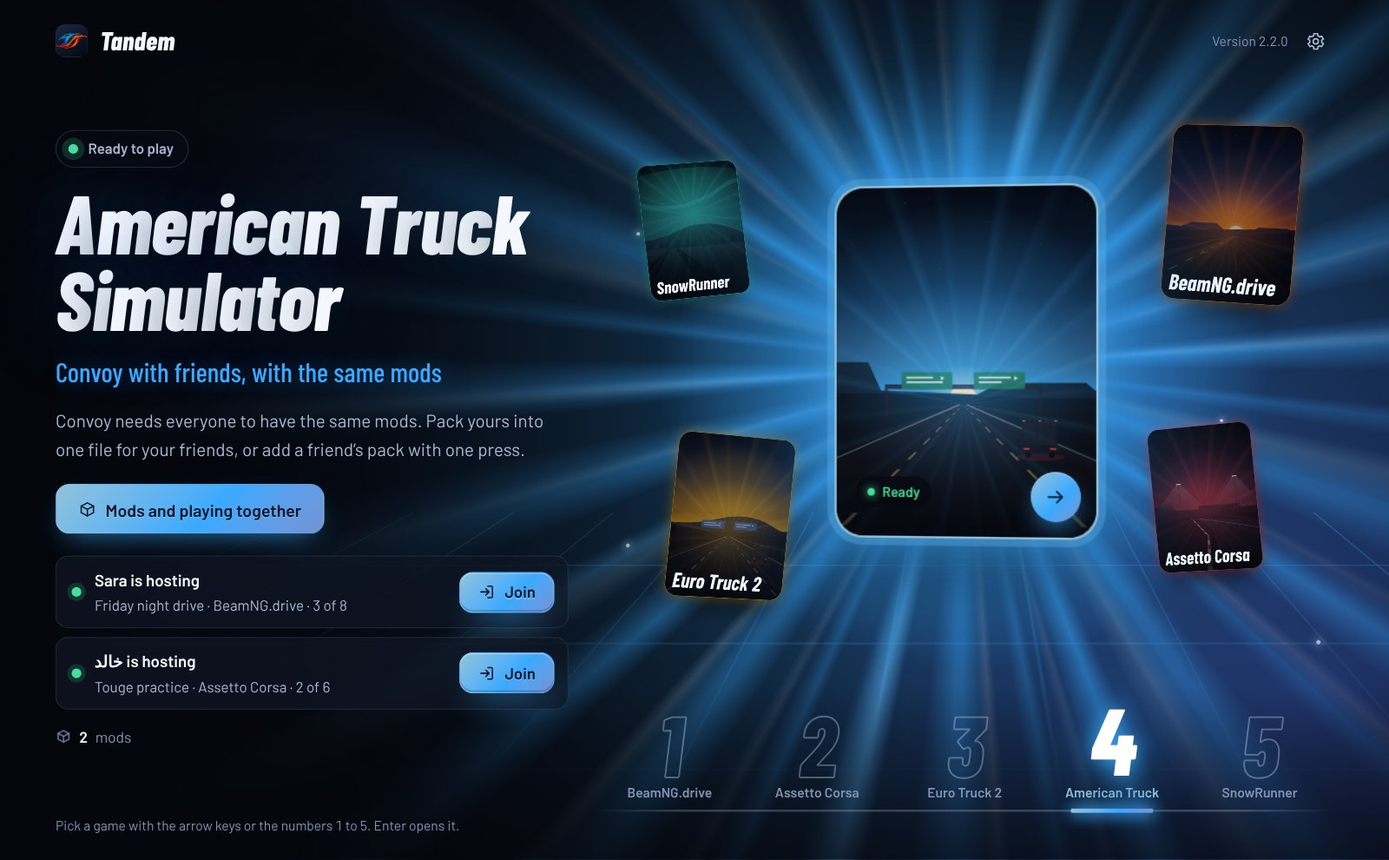
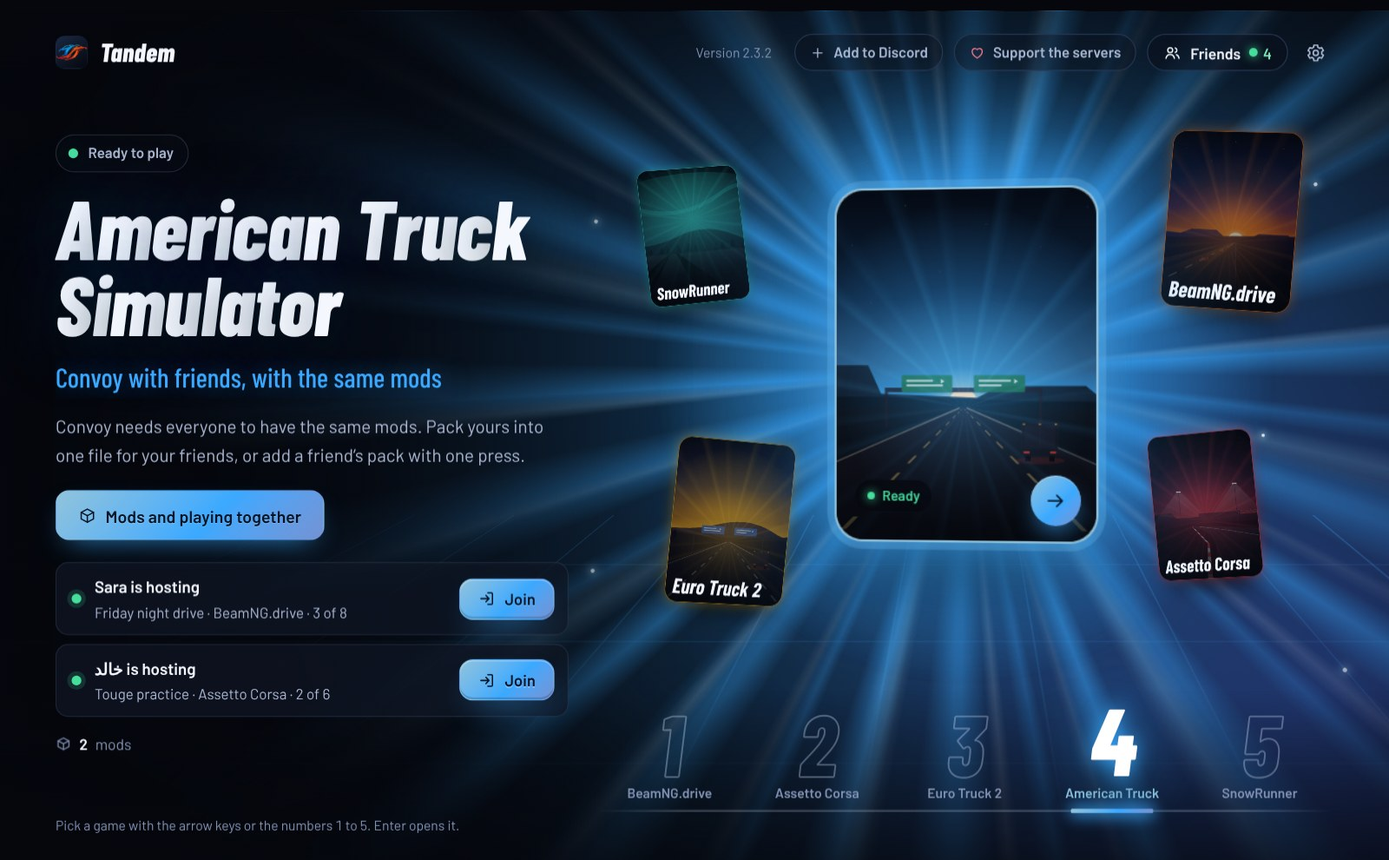
Tandem 2.3.2: New in 2.3 (friends, live map, the whole planet, backup route, Discord bot and status), Playing now, fresh 2.3.2 pictures
Claude-Session: https://claude.ai/code/session_01DAip5mYULPS2UEvRR35KRN

diff --git a/index.html b/index.html
@@ -3,7 +3,7 @@
 <head>
 <meta charset="utf-8">
 <meta name="viewport" content="width=device-width, initial-scale=1, viewport-fit=cover">
-<meta http-equiv="Content-Security-Policy" content="default-src 'none'; script-src 'sha256-8VHCHuWYiJuamFYB5elcAHtd2EqjMvnUOgRSxvvkTy0=' 'sha256-HTD+WLxPAAk+6BHThBzG/oxsUEiQgd2BHaImcy/E3Hg='; style-src 'self' 'unsafe-inline' https://fonts.googleapis.com; font-src https://fonts.gstatic.com; img-src 'self' data:; connect-src https://api.github.com; base-uri 'none'; form-action 'none'">
+<meta http-equiv="Content-Security-Policy" content="default-src 'none'; script-src 'sha256-DFJ7IdB0tBNmLmuRNgpEo9u5m9uYJSu1+aFsD5wwr3M=' 'sha256-4DuXHdYDW4SnoT/hApZRKMQR2EP5yMigk2EDWf3FkoM='; style-src 'self' 'unsafe-inline' https://fonts.googleapis.com; font-src https://fonts.gstatic.com; img-src 'self' data:; connect-src https://api.github.com https://tandem-sessions.mhmd8p.workers.dev; base-uri 'none'; form-action 'none'">
 <meta name="referrer" content="strict-origin-when-cross-origin">
 <title>Tandem · Play BeamNG.drive and Assetto Corsa with friends</title>
 <meta name="description" content="Host and join BeamNG.drive and Assetto Corsa sessions with your friends, from your own PC. Friends join with one invite and get the maps and mods they are missing. Free.">
@@ -87,6 +87,19 @@ p { margin: 0; text-wrap: pretty; }
 .sec { padding-block: clamp(60px, 8vw, 112px); position: relative; }
 .sec-head { display: grid; gap: 18px; max-width: 760px; margin-bottom: clamp(36px, 5vw, 64px); }
 .sec-head p { color: var(--worn); font-size: var(--fs-lead); max-width: 36em; }
+/* "Playing now": public sessions open at this moment (only there when one is). */
+.sec.now { padding-block: clamp(34px, 5vw, 60px); }
+.sec.now .sec-head { margin-bottom: 22px; }
+.now-dot { display: inline-block; width: .42em; height: .42em; margin-inline-end: .32em; border-radius: 50%; background: #46de9d; box-shadow: 0 0 0 .14em rgba(70, 222, 157, .25); vertical-align: .16em; }
+.now-list { list-style: none; margin: 0; padding: 0; display: grid; gap: 10px; }
+.now-list li { display: grid; grid-template-columns: minmax(0, 1fr) minmax(0, 1.5fr) auto; align-items: center; gap: 6px 24px; padding: 14px 16px; padding-inline-start: 22px; border-radius: 18px; border: 1px solid var(--edge); background: rgba(255, 255, 255, .03); }
+.now-list b { font-size: 1.08rem; font-weight: 700; overflow-wrap: anywhere; }
+html[dir="rtl"] .now-list b { text-align: right; }
+.now-list span { color: var(--worn); font-size: .95rem; overflow-wrap: anywhere; }
+.now-list a { padding: 10px 18px; border-radius: 999px; background: var(--signal); color: var(--signal-ink); font-weight: 700; font-size: .92rem; text-decoration: none; white-space: nowrap; }
+.now-list a:hover, .now-list a:focus-visible { filter: brightness(1.08); }
+@media (max-width: 760px) { .now-list li { grid-template-columns: minmax(0, 1fr) auto; gap: 4px 14px; padding-inline-start: 18px; } .now-list b, .now-list span { grid-column: 1; } .now-list a { grid-column: 2; grid-row: 1 / span 2; } }
+@media (max-width: 460px) { .now-list li { grid-template-columns: minmax(0, 1fr); } .now-list a { grid-column: 1; grid-row: auto; justify-self: start; margin-top: 8px; } }
 
 /* ---------- Buttons ---------- */
 .btn { display: inline-flex; align-items: center; gap: 10px; min-height: 46px; padding: 0 20px; border-radius: var(--r-control); font: 600 1rem/1.1 var(--body); text-decoration: none; border: 1px solid var(--edge-2); background: rgba(255, 255, 255, .03); color: var(--lane); cursor: pointer; transition: background .25s var(--ease), border-color .25s var(--ease), transform .25s var(--ease); }
@@ -636,6 +649,10 @@ p { margin: 0; text-wrap: pretty; }
   <symbol id="i-out" viewBox="0 0 24 24"><path d="M7 17L17 7M9 7h8v8"/></symbol>
   <symbol id="i-arrow" viewBox="0 0 24 24"><path d="M4 12h15M13 6l6 6-6 6"/></symbol>
   <symbol id="i-copy" viewBox="0 0 24 24"><rect x="9" y="9" width="11" height="11" rx="2"/><path d="M5 15V6a2 2 0 012-2h9"/></symbol>
+  <symbol id="i-calendar" viewBox="0 0 24 24"><rect x="3.5" y="5" width="17" height="15.5" rx="2.5"/><path d="M3.5 10h17M8 3v4M16 3v4M8.7 14.8l2.2 2.2 4.4-4.6"/></symbol>
+  <symbol id="i-map" viewBox="0 0 24 24"><path d="M9 4.5l-5.5 2v13l5.5-2 6 2 5.5-2v-13l-5.5 2-6-2zM9 4.5v13M15 6.5v13"/></symbol>
+  <symbol id="i-bot" viewBox="0 0 24 24"><rect x="5" y="8" width="14" height="11" rx="3"/><path d="M12 8V5M9.5 13h.01M14.5 13h.01M9.5 16h5M2.5 12.5v3M21.5 12.5v3"/><circle cx="12" cy="3.8" r="1.2"/></symbol>
+  <symbol id="i-photo" viewBox="0 0 24 24"><rect x="3" y="4.5" width="18" height="15" rx="2.5"/><circle cx="8.5" cy="9.5" r="1.6"/><path d="M3.5 17.5l5-5 3.5 3.5 3-3 5.5 5.5"/></symbol>
 </svg>
 
 <a class="skip" href="#main" data-t="skip">Skip to content</a>
@@ -669,7 +686,7 @@ p { margin: 0; text-wrap: pretty; }
     <div class="streaks" aria-hidden="true"><i style="--y:18%;--d:7s;--w:0s"></i><i style="--y:46%;--d:9s;--w:2.4s"></i><i style="--y:72%;--d:8s;--w:4.6s"></i><i style="--y:30%;--d:10s;--w:6s"></i><i style="--y:88%;--d:9.5s;--w:1.2s"></i></div>
     <div class="wrap hero-grid">
       <div class="hero-copy">
-        <a class="pill" href="#new22"><b>2.2</b><span data-t="hero_pill">New in 2.2: a new look, your phone as a remote, and three more games</span></a>
+        <a class="pill" href="#new23"><b>2.3.2</b><span data-t="hero_pill">New in 2.3: friends, a live map, and the whole planet</span></a>
         <h1 class="display"><span data-t="hero_h1">Drive with your friends.</span><span class="paint" aria-hidden="true"></span></h1>
         <p class="lead" data-t="hero_lead">Host BeamNG.drive and Assetto Corsa sessions from your own PC. Friends join with one invite, and Tandem brings them the maps and mods they’re missing.</p>
         <div class="actions">
@@ -720,6 +737,16 @@ p { margin: 0; text-wrap: pretty; }
         <button type="button" role="tab" aria-selected="false" style="--c:#3aa9ff"><b>4</b><span>American Truck</span></button>
         <button type="button" role="tab" aria-selected="false" style="--c:#2fd6c4"><b>5</b><span>SnowRunner</span></button>
       </div>
+    </div>
+  </section>
+
+  <section class="sec now" id="now" aria-labelledby="now-h" hidden>
+    <div class="wrap">
+      <div class="sec-head">
+        <h2 class="display" id="now-h"><span class="now-dot" aria-hidden="true"></span><span data-t="pn_h">Playing now</span></h2>
+        <p data-t="pn_p">Public sessions that are open right now. Join opens Tandem on your PC, and the host still lets each player in.</p>
+      </div>
+      <ul class="now-list" id="now-list"></ul>
     </div>
   </section>
 
@@ -788,6 +815,26 @@ p { margin: 0; text-wrap: pretty; }
     </div>
   </section>
 
+  <section class="sec" id="new23" aria-labelledby="new23-h">
+    <div class="wrap">
+      <div class="sec-head rise">
+        <h2 class="display" id="new23-h" data-t="n23_h">New in 2.3</h2>
+        <p data-t="n23_p">Friends you add once with a code, a live map of your session, the whole planet in BeamNG, and race bots in Assetto Corsa.</p>
+      </div>
+      <div class="core core-3 rise">
+        <div><span class="ic-wrap"><svg class="ic" aria-hidden="true"><use href="#i-users"/></svg></span><b data-t="q1t">Friends</b><p data-t="q1p">Add a friend once with a code. You see who is online, join each other without asking, and invite with one press.</p></div>
+        <div><span class="ic-wrap"><svg class="ic" aria-hidden="true"><use href="#i-calendar"/></svg></span><b data-t="q2t">Game night</b><p data-t="q2p">Plan a session and tell your friends. They get its mods ahead of time, so on the night nobody waits for a download.</p></div>
+        <div><span class="ic-wrap"><svg class="ic" aria-hidden="true"><use href="#i-map"/></svg></span><b data-t="q3t">A live map</b><p data-t="q3p">See where everyone is on the map of your session, in BeamNG and in Assetto Corsa. The game is never asked for anything.</p></div>
+        <div><span class="ic-wrap"><svg class="ic" aria-hidden="true"><use href="#i-globe"/></svg></span><b data-t="q4t">The whole planet</b><p data-t="q4p">Drive anywhere on Earth together with the free BeamNG.Earth map. Tandem starts it for you (Windows).</p></div>
+        <div><span class="ic-wrap"><svg class="ic" aria-hidden="true"><use href="#i-bot"/></svg></span><b data-t="q5t">Race bots</b><p data-t="q5p">Fill an Assetto Corsa track with computer drivers that follow the racing line and keep out of your way.</p></div>
+        <div><span class="ic-wrap"><svg class="ic" aria-hidden="true"><use href="#i-photo"/></svg></span><b data-t="q6t">A photo album</b><p data-t="q6p">Everyone’s screenshots of a session land in one folder. Tandem asks once before it shares yours.</p></div>
+        <div><span class="ic-wrap"><svg class="ic" aria-hidden="true"><use href="#i-cloud"/></svg></span><b data-t="q7t">Backup route</b><p data-t="q7p">Friends whose routers can’t link directly now join by themselves, through a relay server.</p></div>
+        <div><span class="ic-wrap"><svg class="ic" aria-hidden="true"><use href="#i-chat"/></svg></span><b data-t="q8t">Add to Discord</b><p data-t="q8p">Add the Tandem bot to your Discord server: live sessions and news of new versions, by themselves.</p></div>
+        <div><span class="ic-wrap"><svg class="ic" aria-hidden="true"><use href="#i-play"/></svg></span><b data-t="q9t">Discord status</b><p data-t="q9p">Friends see your game, map and players on Discord, and can ask to join from there.</p></div>
+      </div>
+    </div>
+  </section>
+
   <section class="sec" id="new22" aria-labelledby="new22-h">
     <div class="wrap">
       <div class="sec-head rise">
@@ -815,25 +862,6 @@ p { margin: 0; text-wrap: pretty; }
         <div><span class="ic-wrap"><svg class="ic" aria-hidden="true"><use href="#i-traffic"/></svg></span><b data-t="m5t">Traffic that starts</b><p data-t="m5p">When the usual start fails on a PC, Tandem tries a second way and tells you what happened.</p></div>
         <div><span class="ic-wrap"><svg class="ic" aria-hidden="true"><use href="#i-shield"/></svg></span><b data-t="m6t">Clear words for Assetto Corsa mods</b><p data-t="m6p">Purple map or a missing car? Tandem tells you when Custom Shaders Patch is missing, older than the host’s or switched off.</p></div>
         <div><span class="ic-wrap"><svg class="ic" aria-hidden="true"><use href="#i-globe"/></svg></span><b data-t="m10t">Hosting no longer stops on a blocked website</b><p data-t="m10p">Finding your internet address when you host now asks several places at once. Before, one blocked or slow website could stop hosting with a “timeout” message.</p></div>
-      </div>
-    </div>
-  </section>
-
-  <section class="sec" id="new21" aria-labelledby="new21-h">
-    <div class="wrap">
-      <div class="sec-head rise">
-        <h2 class="display" id="new21-h" data-t="n21_h">New in 2.1</h2>
-        <p data-t="n21_p">Games to play together, started by the host from the friends list in the game.</p>
-      </div>
-      <div class="core rise">
-        <div><span class="ic-wrap"><svg class="ic" aria-hidden="true"><use href="#i-play"/></svg></span><b data-t="n1t">Race your friends</b><p data-t="n1p">Drag races, point to point and laps. One countdown for everyone and a results board at the end.</p></div>
-        <div><span class="ic-wrap"><svg class="ic" aria-hidden="true"><use href="#i-crash"/></svg></span><b data-t="n2t">Drift battles, tandem drift, derby and tag</b><p data-t="n2p">Most drift points, more points the closer you drift to a friend, the last car still moving, or don’t be “it”. The host picks, everyone plays.</p></div>
-        <div><span class="ic-wrap"><svg class="ic" aria-hidden="true"><use href="#i-users"/></svg></span><b data-t="n3t">A new friends list in the game</b><p data-t="n3p">Go to a friend, watch them drive, follow the arrows to friends you can’t see, or hide a player’s car on your screen.</p></div>
-        <div><span class="ic-wrap"><svg class="ic" aria-hidden="true"><use href="#i-key"/></svg></span><b data-t="n4t">Get your friend’s car</b><p data-t="n4p">One press and you drive the same car, with the same parts and paint. Open a door or the hood, and your friends see it too.</p></div>
-        <div><span class="ic-wrap"><svg class="ic" aria-hidden="true"><use href="#i-note"/></svg></span><b data-t="n5t">Sessions with a theme</b><p data-t="n5p">Cruise, race, drift, off-road or derby. Filter the public list, or plan a session and get a reminder.</p></div>
-        <div><span class="ic-wrap"><svg class="ic" aria-hidden="true"><use href="#i-game"/></svg></span><b data-t="n6t">More for Assetto Corsa</b><p data-t="n6p">Results after every part of the session, and new cars without ending it.</p></div>
-        <div><span class="ic-wrap"><svg class="ic" aria-hidden="true"><use href="#i-shield"/></svg></span><b data-t="n7t">Fair sessions</b><p data-t="n7p">A welcome message, votes to remove a player, and a filter for bad words in chat.</p></div>
-        <div><span class="ic-wrap"><svg class="ic" aria-hidden="true"><use href="#i-heart"/></svg></span><b data-t="n8t">Your numbers</b><p data-t="n8p">Hours, kilometres and games won, and your own card to share as a picture.</p></div>
       </div>
     </div>
   </section>
@@ -1091,7 +1119,8 @@ en: {
   plat_win: "Windows 10 and 11",
   skip: "Skip to content", nav_label: "Main", links_label: "Links",
   nav_features: "Features", nav_how: "How it works", nav_safe: "Safety", nav_faq: "FAQ", nav_community: "Community", nav_download: "Download",
-  hero_pill: "New in 2.2: a new look, your phone as a remote, and three more games",
+  hero_pill: "New in 2.3: friends, a live map, and the whole planet",
+  n23_h: "New in 2.3", n23_p: "Friends you add once with a code, a live map of your session, the whole planet in BeamNG, and race bots in Assetto Corsa.", q1t: "Friends", q1p: "Add a friend once with a code. You see who is online, join each other without asking, and invite with one press.", q2t: "Game night", q2p: "Plan a session and tell your friends. They get its mods ahead of time, so on the night nobody waits for a download.", q3t: "A live map", q3p: "See where everyone is on the map of your session, in BeamNG and in Assetto Corsa. The game is never asked for anything.", q4t: "The whole planet", q4p: "Drive anywhere on Earth together with the free BeamNG.Earth map. Tandem starts it for you (Windows).", q5t: "Race bots", q5p: "Fill an Assetto Corsa track with computer drivers that follow the racing line and keep out of your way.", q6t: "A photo album", q6p: "Everyone’s screenshots of a session land in one folder. Tandem asks once before it shares yours.", q7t: "Backup route", q7p: "Friends whose routers can’t link directly now join by themselves, through a relay server.", q8t: "Add to Discord", q8p: "Add the Tandem bot to your Discord server: live sessions and news of new versions, by themselves.", q9t: "Discord status", q9p: "Friends see your game, map and players on Discord, and can ask to join from there.", pn_h: "Playing now", pn_p: "Public sessions that are open right now. Join opens Tandem on your PC, and the host still lets each player in.", pn_join: "Join in Tandem", pn_players: "{n} / {max} players",
   hero_h1: "Drive with your friends.",
   hero_lead: "Host BeamNG.drive and Assetto Corsa sessions from your own PC. Friends join with one invite, and Tandem brings them the maps and mods they’re missing.",
   dl_win: "Download for Windows", dl_linux: "Download for Linux", dl_sub: "Free · Windows 10 and 11", dl_sub_v: "Version {v} · {mb} MB · Free", dl_all: "All downloads on GitHub",
@@ -1168,7 +1197,8 @@ ar: {
   plat_win: "ويندوز 10 و11",
   skip: "انتقل إلى المحتوى", nav_label: "القائمة الرئيسية", links_label: "الروابط",
   nav_features: "المزايا", nav_how: "طريقة العمل", nav_safe: "الأمان", nav_faq: "الأسئلة", nav_community: "المجتمع", nav_download: "تحميل",
-  hero_pill: "جديد في 2.2: شكل جديد، جوالك صار ريموت، وثلاث ألعاب جديدة",
+  hero_pill: "جديد في 2.3: الأصدقاء، خريطة مباشرة، والكوكب كله",
+  n23_h: "جديد في 2.3", n23_p: "أصدقاء تضيفهم مرة وحدة بكود، خريطة مباشرة لجلستك، الكوكب كله في BeamNG، وسائقين آليين في Assetto Corsa.", q1t: "الأصدقاء", q1p: "أضف صديقك مرة وحدة بكود. تشوف مين متصل، وتدخلون على بعض بدون استئذان، وتدعو بضغطة.", q2t: "سهرة اللعب", q2p: "خطط جلسة وخبّر ربعك. توصلهم موداتها قبل الموعد، وفي ليلة اللعب ما أحد ينتظر تحميل.", q3t: "خريطة مباشرة", q3p: "شوف وين كل واحد على خريطة جلستك، في BeamNG وفي Assetto Corsa. بدون ما ينطلب من اللعبة أي شي.", q4t: "الكوكب كله", q4p: "سوقوا في أي مكان على الأرض مع بعض بخريطة BeamNG.Earth المجانية. Tandem يشغّلها عنك (ويندوز).", q5t: "سائقين آليين", q5p: "املأ حلبة Assetto Corsa بسائقين من الكمبيوتر يمشون على خط السباق وما يضايقونك.", q6t: "ألبوم صور", q6p: "لقطات الكل في الجلسة تنزل في مجلد واحد. Tandem يسألك مرة وحدة قبل ما يشارك لقطاتك.", q7t: "المسار الاحتياطي", q7p: "الربع اللي راوتراتهم ما تتصل مباشرة صاروا يدخلون لحالهم، عن طريق سيرفر وسيط.", q8t: "ضيفه لديسكورد", q8p: "ضيف بوت Tandem لسيرفرك في ديسكورد: الجلسات المباشرة وأخبار الإصدارات الجديدة توصل لحالها.", q9t: "حالتك في ديسكورد", q9p: "ربعك يشوفون لعبتك وخريطتك واللاعبين في ديسكورد، ويقدرون يطلبون الانضمام من هناك.", pn_h: "يلعبون الحين", pn_p: "جلسات عامة مفتوحة الحين. «انضم» يفتح Tandem على جهازك، والمستضيف هو اللي يسمح لكل لاعب.", pn_join: "انضم في Tandem", pn_players: "{n} من {max} لاعبين",
   hero_h1: "القيادة أحلى مع أصدقائك.",
   hero_lead: "استضف جلسات BeamNG.drive و Assetto Corsa من جهازك. يدخل أصدقاؤك بدعوة واحدة، ويجلب لهم تاندم الخرائط والمودات التي تنقصهم.",
   dl_win: "تحميل لويندوز", dl_linux: "تحميل للينكس", dl_sub: "مجاني · ويندوز 10 و11", dl_sub_v: "الإصدار {v} · {mb} ميغابايت · مجاني", dl_all: "كل التحميلات على GitHub",
@@ -1245,7 +1275,8 @@ zh: {
   plat_win: "Windows 10 和 11",
   skip: "跳到内容", nav_label: "主导航", links_label: "链接",
   nav_features: "功能", nav_how: "怎么用", nav_safe: "安全", nav_faq: "常见问题", nav_community: "社区", nav_download: "下载",
-  hero_pill: "2.2 新内容：全新外观、手机当遥控、新增三款游戏",
+  hero_pill: "2.3 新内容：朋友、实时地图和整个地球",
+  n23_h: "2.3 新内容", n23_p: "用代码添加一次的朋友、会话的实时地图、BeamNG 里的整个地球，以及 Assetto Corsa 的比赛机器人。", q1t: "朋友", q1p: "用代码添加一次朋友。你能看到谁在线，不用询问就能互相加入，一键即可邀请。", q2t: "游戏之夜", q2p: "计划一个会话并告诉朋友。他们会提前拿到模组，当晚没有人需要等下载。", q3t: "实时地图", q3p: "在 BeamNG 和 Assetto Corsa 中查看每个人在会话地图上的位置。不会向游戏索取任何东西。", q4t: "整个地球", q4p: "用免费的 BeamNG.Earth 地图一起在地球任何地方开车。Tandem 会替你启动它（Windows）。", q5t: "比赛机器人", q5p: "用电脑车手填满 Assetto Corsa 的赛道，它们沿赛车线行驶，不会挡你的路。", q6t: "相册", q6p: "会话中每个人的截图都会落在同一个文件夹里。分享你的截图之前，Tandem 会先问一次。", q7t: "备用线路", q7p: "路由器无法直连的朋友现在会自动通过中继服务器加入。", q8t: "添加到 Discord", q8p: "把 Tandem 机器人加到你的 Discord 服务器：实时会话和新版本消息，自动发布。", q9t: "Discord 状态", q9p: "朋友能在 Discord 上看到你的游戏、地图和玩家，还能直接从那里请求加入。", pn_h: "正在游玩", pn_p: "现在开放的公开会话。“加入”会在你的电脑上打开 Tandem，仍由主机决定是否放行每位玩家。", pn_join: "在 Tandem 中加入", pn_players: "{n} / {max} 名玩家",
   hero_h1: "和朋友一起开车。",
   hero_lead: "在你自己的电脑上开 BeamNG.drive 和 Assetto Corsa 的房间。朋友用一条邀请就能加入，Tandem 会把他们缺少的地图和模组送过去。",
   dl_win: "下载 Windows 版", dl_linux: "下载 Linux 版", dl_sub: "免费 · Windows 10 和 11", dl_sub_v: "版本 {v} · {mb} MB · 免费", dl_all: "在 GitHub 上查看全部下载",
@@ -1322,7 +1353,8 @@ fr: {
   plat_win: "Windows 10 et 11",
   skip: "Aller au contenu", nav_label: "Navigation principale", links_label: "Liens",
   nav_features: "Fonctions", nav_how: "Comment ça marche", nav_safe: "Sécurité", nav_faq: "FAQ", nav_community: "Communauté", nav_download: "Télécharger",
-  hero_pill: "Nouveau dans la 2.2 : un nouveau look, votre téléphone comme télécommande et trois jeux de plus",
+  hero_pill: "Nouveau dans la 2.3 : amis, carte en direct et planète entière",
+  n23_h: "Nouveau dans la 2.3", n23_p: "Des amis ajoutés une fois avec un code, une carte en direct de votre session, la planète entière dans BeamNG et des pilotes robots dans Assetto Corsa.", q1t: "Amis", q1p: "Ajoutez un ami une fois avec un code. Vous voyez qui est en ligne, vous vous rejoignez sans demander et vous invitez d’un clic.", q2t: "Soirée de jeu", q2p: "Prévoyez une session et prévenez vos amis. Ils reçoivent ses mods à l’avance : le soir venu, personne n’attend un téléchargement.", q3t: "Une carte en direct", q3p: "Voyez où se trouve chacun sur la carte de votre session, dans BeamNG et dans Assetto Corsa. Rien n’est demandé au jeu.", q4t: "La planète entière", q4p: "Roulez ensemble partout sur Terre avec la carte gratuite BeamNG.Earth. Tandem la lance pour vous (Windows).", q5t: "Pilotes robots", q5p: "Remplissez un circuit d’Assetto Corsa de pilotes gérés par l’ordinateur, qui suivent la trajectoire et ne vous gênent pas.", q6t: "Un album photo", q6p: "Les captures d’écran de tous arrivent dans un seul dossier. Tandem demande une fois avant de partager les vôtres.", q7t: "Route de secours", q7p: "Les amis dont les routeurs ne peuvent pas se relier directement rejoignent maintenant tout seuls, via un serveur relais.", q8t: "Ajouter à Discord", q8p: "Ajoutez le bot Tandem à votre serveur Discord : sessions en direct et annonces des nouvelles versions, automatiquement.", q9t: "Statut Discord", q9p: "Vos amis voient votre jeu, la carte et les joueurs sur Discord, et peuvent demander à vous rejoindre depuis là.", pn_h: "En ce moment", pn_p: "Les sessions publiques ouvertes en ce moment. Rejoindre ouvre Tandem sur votre PC, et l’hôte laisse toujours entrer chaque joueur lui-même.", pn_join: "Rejoindre dans Tandem", pn_players: "{n} / {max} joueurs",
   hero_h1: "Roulez avec vos amis.",
   hero_lead: "Hébergez des sessions BeamNG.drive et Assetto Corsa depuis votre propre PC. Vos amis rejoignent avec une seule invitation, et Tandem leur apporte les cartes et les mods qui leur manquent.",
   dl_win: "Télécharger pour Windows", dl_linux: "Télécharger pour Linux", dl_sub: "Gratuit · Windows 10 et 11", dl_sub_v: "Version {v} · {mb} Mo · Gratuit", dl_all: "Tous les téléchargements sur GitHub",
@@ -1399,7 +1431,8 @@ de: {
   plat_win: "Windows 10 und 11",
   skip: "Zum Inhalt springen", nav_label: "Hauptnavigation", links_label: "Links",
   nav_features: "Funktionen", nav_how: "So funktioniert’s", nav_safe: "Sicherheit", nav_faq: "FAQ", nav_community: "Community", nav_download: "Download",
-  hero_pill: "Neu in 2.2: ein neuer Look, dein Handy als Fernbedienung und drei weitere Spiele",
+  hero_pill: "Neu in 2.3: Freunde, eine Live-Karte und der ganze Planet",
+  n23_h: "Neu in 2.3", n23_p: "Freunde, die du einmal per Code hinzufügst, eine Live-Karte deiner Sitzung, der ganze Planet in BeamNG und Renn-Bots in Assetto Corsa.", q1t: "Freunde", q1p: "Füge einen Freund einmal per Code hinzu. Du siehst, wer online ist, ihr tretet einander ohne Nachfrage bei und ladet mit einem Klick ein.", q2t: "Spieleabend", q2p: "Plane eine Sitzung und sag es deinen Freunden. Sie bekommen die Mods vorab, am Abend wartet niemand auf einen Download.", q3t: "Eine Live-Karte", q3p: "Sieh, wo alle auf der Karte deiner Sitzung sind, in BeamNG und in Assetto Corsa. Vom Spiel wird dafür nichts verlangt.", q4t: "Der ganze Planet", q4p: "Fahrt zusammen überall auf der Erde, mit der kostenlosen BeamNG.Earth-Karte. Tandem startet sie für dich (Windows).", q5t: "Renn-Bots", q5p: "Fülle eine Strecke in Assetto Corsa mit Computerfahrern, die der Ideallinie folgen und dir aus dem Weg bleiben.", q6t: "Ein Fotoalbum", q6p: "Die Screenshots aller aus einer Sitzung landen in einem Ordner. Tandem fragt einmal, bevor es deine teilt.", q7t: "Ausweichroute", q7p: "Freunde, deren Router sich nicht direkt verbinden können, treten jetzt von selbst über einen Relay-Server bei.", q8t: "Zu Discord hinzufügen", q8p: "Füge den Tandem-Bot deinem Discord-Server hinzu: Live-Sitzungen und Neuigkeiten zu neuen Versionen, ganz von selbst.", q9t: "Discord-Status", q9p: "Freunde sehen auf Discord dein Spiel, die Karte und die Spieler und können von dort aus um Beitritt bitten.", pn_h: "Gerade live", pn_p: "Öffentliche Sitzungen, die jetzt offen sind. Beitreten öffnet Tandem auf deinem PC, und der Host lässt weiterhin jeden Spieler selbst herein.", pn_join: "In Tandem beitreten", pn_players: "{n} / {max} Spieler",
   hero_h1: "Fahr mit deinen Freunden.",
   hero_lead: "Hoste Sitzungen in BeamNG.drive und Assetto Corsa auf deinem eigenen PC. Freunde treten mit einer Einladung bei, und Tandem bringt ihnen die Karten und Mods, die ihnen fehlen.",
   dl_win: "Für Windows herunterladen", dl_linux: "Für Linux herunterladen", dl_sub: "Kostenlos · Windows 10 und 11", dl_sub_v: "Version {v} · {mb} MB · Kostenlos", dl_all: "Alle Downloads auf GitHub",
@@ -1476,7 +1509,8 @@ ja: {
   plat_win: "Windows 10 と 11",
   skip: "本文へ移動", nav_label: "メインメニュー", links_label: "リンク",
   nav_features: "機能", nav_how: "使い方", nav_safe: "安全性", nav_faq: "よくある質問", nav_community: "コミュニティ", nav_download: "ダウンロード",
-  hero_pill: "2.2 の新機能：新しいデザイン、スマホがリモコンに、3 つの新ゲーム",
+  hero_pill: "2.3 の新機能：フレンド、ライブマップ、地球全体",
+  n23_h: "2.3 の新機能", n23_p: "コードで一度追加するフレンド、セッションのライブマップ、BeamNG の地球全体、Assetto Corsa のレースボット。", q1t: "フレンド", q1p: "コードでフレンドを一度追加。誰がオンラインかが見え、確認なしで参加し合え、ワンクリックで招待できます。", q2t: "ゲームナイト", q2p: "セッションを予定してフレンドに知らせます。MOD は前もって届くので、当日は誰もダウンロードを待ちません。", q3t: "ライブマップ", q3p: "BeamNG と Assetto Corsa で、セッションのマップ上のみんなの位置が見えます。ゲームには何も要求しません。", q4t: "地球全体", q4p: "無料の BeamNG.Earth マップで、地球のどこでも一緒に走れます。Tandem が代わりに起動します（Windows）。", q5t: "レースボット", q5p: "Assetto Corsa のコースをコンピューターのドライバーで埋めます。レーシングラインをたどり、邪魔はしません。", q6t: "フォトアルバム", q6p: "セッションのみんなのスクリーンショットが一つのフォルダーに届きます。自分の分を共有する前に Tandem が一度尋ねます。", q7t: "予備ルート", q7p: "ルーター同士が直接つながらないフレンドも、中継サーバー経由で自動的に参加できるようになりました。", q8t: "Discord に追加", q8p: "Tandem ボットをあなたの Discord サーバーに追加：ライブセッションと新バージョンのお知らせが自動で届きます。", q9t: "Discord ステータス", q9p: "フレンドは Discord であなたのゲーム、マップ、プレイヤーを確認でき、そこから参加をリクエストできます。", pn_h: "プレイ中", pn_p: "今開いている公開セッション。「参加」であなたの PC の Tandem が開き、入れるかどうかはホストが決めます。", pn_join: "Tandem で参加", pn_players: "プレイヤー {n} / {max}",
   hero_h1: "フレンドと一緒に走ろう。",
   hero_lead: "BeamNG.drive と Assetto Corsa のセッションを自分の PC でホスト。フレンドは招待ひとつで参加でき、足りないマップや MOD は Tandem が届けます。",
   dl_win: "Windows 版をダウンロード", dl_linux: "Linux 版をダウンロード", dl_sub: "無料 · Windows 10 と 11", dl_sub_v: "バージョン {v} · {mb} MB · 無料", dl_all: "すべてのダウンロードは GitHub で",
@@ -1553,7 +1587,8 @@ ko: {
   plat_win: "Windows 10 및 11",
   skip: "본문으로 건너뛰기", nav_label: "주 메뉴", links_label: "링크",
   nav_features: "기능", nav_how: "사용 방법", nav_safe: "안전", nav_faq: "자주 묻는 질문", nav_community: "커뮤니티", nav_download: "다운로드",
-  hero_pill: "2.2 새 기능: 새 디자인, 휴대폰이 리모컨으로, 게임 3개 추가",
+  hero_pill: "2.3 새 기능: 친구, 실시간 지도, 지구 전체",
+  n23_h: "2.3 새 기능", n23_p: "코드로 한 번만 추가하는 친구, 세션의 실시간 지도, BeamNG의 지구 전체, Assetto Corsa의 레이스 봇.", q1t: "친구", q1p: "코드로 친구를 한 번만 추가하세요. 누가 온라인인지 보고, 묻지 않고 서로 참가하며, 한 번 눌러 초대합니다.", q2t: "게임의 밤", q2p: "세션을 계획하고 친구에게 알리세요. 모드를 미리 받으니 당일에는 아무도 다운로드를 기다리지 않습니다.", q3t: "실시간 지도", q3p: "BeamNG와 Assetto Corsa에서 세션 지도 위에 모두가 어디 있는지 보세요. 게임에는 아무것도 요구하지 않습니다.", q4t: "지구 전체", q4p: "무료 BeamNG.Earth 맵으로 지구 어디든 함께 달리세요. Tandem이 대신 시작합니다(Windows).", q5t: "레이스 봇", q5p: "Assetto Corsa 트랙을 레이싱 라인을 따라가며 방해하지 않는 컴퓨터 드라이버로 채우세요.", q6t: "사진 앨범", q6p: "세션에서 모두가 찍은 스크린샷이 하나의 폴더에 모입니다. 내 것을 공유하기 전에 Tandem이 한 번 묻습니다.", q7t: "예비 경로", q7p: "공유기끼리 직접 연결되지 않는 친구도 이제 중계 서버를 거쳐 스스로 참가합니다.", q8t: "Discord에 추가", q8p: "Tandem 봇을 내 Discord 서버에 추가: 실시간 세션과 새 버전 소식이 자동으로 올라옵니다.", q9t: "Discord 상태", q9p: "친구들이 Discord에서 내 게임, 맵, 플레이어를 보고 거기서 바로 참가를 요청할 수 있습니다.", pn_h: "지금 플레이 중", pn_p: "지금 열려 있는 공개 세션입니다. 참가를 누르면 내 PC에서 Tandem이 열리고, 호스트가 각 플레이어를 직접 들여보냅니다.", pn_join: "Tandem에서 참가", pn_players: "플레이어 {n} / {max}",
   hero_h1: "친구와 함께 달리세요.",
   hero_lead: "내 PC에서 BeamNG.drive와 Assetto Corsa 세션을 호스트하세요. 친구는 초대 하나로 참가하고, 없는 맵과 모드는 Tandem이 가져다줍니다.",
   dl_win: "Windows용 다운로드", dl_linux: "Linux용 다운로드", dl_sub: "무료 · Windows 10 및 11", dl_sub_v: "버전 {v} · {mb}MB · 무료", dl_all: "GitHub에서 모든 다운로드 보기",
@@ -1630,7 +1665,8 @@ pl: {
   plat_win: "Windows 10 i 11",
   skip: "Przejdź do treści", nav_label: "Menu główne", links_label: "Linki",
   nav_features: "Funkcje", nav_how: "Jak to działa", nav_safe: "Bezpieczeństwo", nav_faq: "Pytania", nav_community: "Społeczność", nav_download: "Pobierz",
-  hero_pill: "Nowość w 2.2: nowy wygląd, telefon jako pilot i trzy kolejne gry",
+  hero_pill: "Nowość w 2.3: znajomi, mapa na żywo i cała planeta",
+  n23_h: "Nowość w 2.3", n23_p: "Znajomi dodawani raz, kodem, mapa na żywo twojej sesji, cała planeta w BeamNG i boty wyścigowe w Assetto Corsa.", q1t: "Znajomi", q1p: "Dodaj znajomego raz, kodem. Widzisz, kto jest online, dołączacie do siebie bez pytania i zapraszasz jednym kliknięciem.", q2t: "Wieczór z grą", q2p: "Zaplanuj sesję i powiedz znajomym. Dostaną jej mody z wyprzedzeniem, więc w dniu gry nikt nie czeka na pobieranie.", q3t: "Mapa na żywo", q3p: "Zobacz, gdzie wszyscy są na mapie twojej sesji, w BeamNG i w Assetto Corsa. Gra nie jest o nic pytana.", q4t: "Cała planeta", q4p: "Jedźcie razem dokąd chcecie po Ziemi dzięki darmowej mapie BeamNG.Earth. Tandem uruchamia ją za ciebie (Windows).", q5t: "Boty wyścigowe", q5p: "Wypełnij tor w Assetto Corsa kierowcami komputerowymi, którzy jadą linią wyścigową i nie wchodzą ci w drogę.", q6t: "Album zdjęć", q6p: "Zrzuty ekranu wszystkich z sesji trafiają do jednego folderu. Tandem pyta raz, zanim udostępni twoje.", q7t: "Trasa zapasowa", q7p: "Znajomi, których routery nie mogą połączyć się bezpośrednio, dołączają teraz sami, przez serwer pośredniczący.", q8t: "Dodaj do Discorda", q8p: "Dodaj bota Tandem do swojego serwera Discord: sesje na żywo i wieści o nowych wersjach, same z siebie.", q9t: "Status na Discordzie", q9p: "Znajomi widzą na Discordzie twoją grę, mapę i graczy, i mogą stamtąd poprosić o dołączenie.", pn_h: "Grają teraz", pn_p: "Publiczne sesje otwarte w tej chwili. Dołącz otwiera Tandem na twoim komputerze, a host nadal sam wpuszcza każdego gracza.", pn_join: "Dołącz w Tandem", pn_players: "Gracze: {n} / {max}",
   hero_h1: "Jeźdź ze znajomymi.",
   hero_lead: "Hostuj sesje BeamNG.drive i Assetto Corsa na własnym komputerze. Znajomi dołączają jednym zaproszeniem, a Tandem dostarcza im brakujące mapy i mody.",
   dl_win: "Pobierz dla Windows", dl_linux: "Pobierz dla Linuksa", dl_sub: "Za darmo · Windows 10 i 11", dl_sub_v: "Wersja {v} · {mb} MB · Za darmo", dl_all: "Wszystkie pliki na GitHubie",
@@ -1707,7 +1743,8 @@ pt: {
   plat_win: "Windows 10 e 11",
   skip: "Pular para o conteúdo", nav_label: "Menu principal", links_label: "Links",
   nav_features: "Recursos", nav_how: "Como funciona", nav_safe: "Segurança", nav_faq: "Perguntas", nav_community: "Comunidade", nav_download: "Baixar",
-  hero_pill: "Novo na 2.2: visual novo, seu celular como controle e mais três jogos",
+  hero_pill: "Novo na 2.3: amigos, mapa ao vivo e o planeta inteiro",
+  n23_h: "Novo na 2.3", n23_p: "Amigos que você adiciona uma vez com um código, um mapa ao vivo da sua sessão, o planeta inteiro no BeamNG e pilotos bot no Assetto Corsa.", q1t: "Amigos", q1p: "Adicione um amigo uma vez com um código. Você vê quem está online, vocês entram sem pedir e convidam com um clique.", q2t: "Noite de jogo", q2p: "Planeje uma sessão e avise seus amigos. Eles recebem os mods com antecedência, e na noite ninguém espera download.", q3t: "Um mapa ao vivo", q3p: "Veja onde cada um está no mapa da sua sessão, no BeamNG e no Assetto Corsa. Nada é pedido ao jogo.", q4t: "O planeta inteiro", q4p: "Dirijam juntos em qualquer lugar da Terra com o mapa gratuito BeamNG.Earth. O Tandem o inicia para você (Windows).", q5t: "Pilotos bot", q5p: "Encha uma pista do Assetto Corsa com pilotos do computador que seguem a linha de corrida e não atrapalham você.", q6t: "Um álbum de fotos", q6p: "As capturas de todos em uma sessão chegam a uma única pasta. O Tandem pergunta uma vez antes de compartilhar as suas.", q7t: "Rota de reserva", q7p: "Amigos cujos roteadores não conseguem se ligar diretamente agora entram sozinhos, por um servidor de retransmissão.", q8t: "Adicionar ao Discord", q8p: "Adicione o bot do Tandem ao seu servidor do Discord: sessões ao vivo e novidades de novas versões, sozinho.", q9t: "Status no Discord", q9p: "Seus amigos veem seu jogo, o mapa e os jogadores no Discord, e podem pedir para entrar por lá.", pn_h: "Jogando agora", pn_p: "Sessões públicas abertas neste momento. Entrar abre o Tandem no seu PC, e o anfitrião continua liberando cada jogador.", pn_join: "Entrar no Tandem", pn_players: "{n} / {max} jogadores",
   hero_h1: "Dirija com seus amigos.",
   hero_lead: "Hospede sessões de BeamNG.drive e Assetto Corsa no seu próprio PC. Seus amigos entram com um convite, e o Tandem leva para eles os mapas e mods que faltam.",
   dl_win: "Baixar para Windows", dl_linux: "Baixar para Linux", dl_sub: "Grátis · Windows 10 e 11", dl_sub_v: "Versão {v} · {mb} MB · Grátis", dl_all: "Todos os downloads no GitHub",
@@ -1784,7 +1821,8 @@ ru: {
   plat_win: "Windows 10 и 11",
   skip: "Перейти к содержимому", nav_label: "Главное меню", links_label: "Ссылки",
   nav_features: "Возможности", nav_how: "Как это работает", nav_safe: "Безопасность", nav_faq: "Вопросы", nav_community: "Сообщество", nav_download: "Скачать",
-  hero_pill: "Новое в 2.2: новый вид, телефон как пульт и ещё три игры",
+  hero_pill: "Новое в 2.3: друзья, живая карта и вся планета",
+  n23_h: "Новое в 2.3", n23_p: "Друзья, которых добавляешь один раз по коду, живая карта сессии, вся планета в BeamNG и гоночные боты в Assetto Corsa.", q1t: "Друзья", q1p: "Добавь друга один раз по коду. Ты видишь, кто онлайн, вы заходите друг к другу без спроса и приглашаете одним нажатием.", q2t: "Игровой вечер", q2p: "Запланируй сессию и скажи друзьям. Они получат её моды заранее, и вечером никто не ждёт загрузки.", q3t: "Живая карта", q3p: "Смотри, где все находятся на карте твоей сессии, в BeamNG и в Assetto Corsa. У игры для этого ничего не просят.", q4t: "Вся планета", q4p: "Ездите вместе где угодно на Земле с бесплатной картой BeamNG.Earth. Tandem запускает её за тебя (Windows).", q5t: "Гоночные боты", q5p: "Заполни трассу в Assetto Corsa компьютерными водителями, которые едут по гоночной траектории и не мешают.", q6t: "Фотоальбом", q6p: "Снимки экрана всех участников сессии попадают в одну папку. Tandem один раз спрашивает, прежде чем делиться твоими.", q7t: "Запасной маршрут", q7p: "Друзья, чьи роутеры не могут связаться напрямую, теперь входят сами, через сервер-ретранслятор.", q8t: "Добавить в Discord", q8p: "Добавьте бота Tandem на свой сервер Discord: живые сессии и новости о новых версиях, сами собой.", q9t: "Статус в Discord", q9p: "Друзья видят в Discord твою игру, карту и игроков и могут попроситься к тебе прямо оттуда.", pn_h: "Играют сейчас", pn_p: "Публичные сессии, открытые прямо сейчас. «Войти» открывает Tandem на твоём ПК, а хост по-прежнему сам впускает каждого игрока.", pn_join: "Войти в Tandem", pn_players: "Игроков: {n} / {max}",
   hero_h1: "Катайся с друзьями.",
   hero_lead: "Создавай сессии BeamNG.drive и Assetto Corsa на своём ПК. Друзья заходят по одному приглашению, а Tandem сам доставит им недостающие карты и моды.",
   dl_win: "Скачать для Windows", dl_linux: "Скачать для Linux", dl_sub: "Бесплатно · Windows 10 и 11", dl_sub_v: "Версия {v} · {mb} МБ · Бесплатно", dl_all: "Все загрузки на GitHub",
@@ -1861,7 +1899,8 @@ es: {
   plat_win: "Windows 10 y 11",
   skip: "Saltar al contenido", nav_label: "Menú principal", links_label: "Enlaces",
   nav_features: "Funciones", nav_how: "Cómo funciona", nav_safe: "Seguridad", nav_faq: "Preguntas", nav_community: "Comunidad", nav_download: "Descargar",
-  hero_pill: "Nuevo en 2.2: un aspecto nuevo, tu móvil como mando y tres juegos más",
+  hero_pill: "Nuevo en 2.3: amigos, un mapa en vivo y el planeta entero",
+  n23_h: "Nuevo en 2.3", n23_p: "Amigos que añades una vez con un código, un mapa en vivo de tu sesión, el planeta entero en BeamNG y pilotos bot en Assetto Corsa.", q1t: "Amigos", q1p: "Añade a un amigo una vez con un código. Ves quién está en línea, os unís sin preguntar e invitas con un clic.", q2t: "Noche de juego", q2p: "Planea una sesión y avisa a tus amigos. Reciben sus mods por adelantado, y esa noche nadie espera una descarga.", q3t: "Un mapa en vivo", q3p: "Mira dónde está cada uno en el mapa de tu sesión, en BeamNG y en Assetto Corsa. Al juego no se le pide nada.", q4t: "El planeta entero", q4p: "Conducid juntos por cualquier lugar de la Tierra con el mapa gratuito BeamNG.Earth. Tandem lo inicia por ti (Windows).", q5t: "Pilotos bot", q5p: "Llena una pista de Assetto Corsa con pilotos del ordenador que siguen la trazada y no te estorban.", q6t: "Un álbum de fotos", q6p: "Las capturas de todos en una sesión llegan a una sola carpeta. Tandem pregunta una vez antes de compartir las tuyas.", q7t: "Ruta de reserva", q7p: "Los amigos cuyos routers no pueden enlazarse directamente ahora se unen solos, a través de un servidor de retransmisión.", q8t: "Añadir a Discord", q8p: "Añade el bot de Tandem a tu servidor de Discord: sesiones en vivo y noticias de nuevas versiones, por sí solo.", q9t: "Estado de Discord", q9p: "Tus amigos ven tu juego, el mapa y los jugadores en Discord, y pueden pedir unirse desde ahí.", pn_h: "Jugando ahora", pn_p: "Sesiones públicas abiertas ahora mismo. Unirse abre Tandem en tu PC, y el anfitrión sigue dejando entrar a cada jugador.", pn_join: "Unirse en Tandem", pn_players: "{n} / {max} jugadores",
   hero_h1: "Conduce con tus amigos.",
   hero_lead: "Aloja sesiones de BeamNG.drive y Assetto Corsa desde tu propio PC. Tus amigos se unen con una sola invitación y Tandem les lleva los mapas y mods que les faltan.",
   dl_win: "Descargar para Windows", dl_linux: "Descargar para Linux", dl_sub: "Gratis · Windows 10 y 11", dl_sub_v: "Versión {v} · {mb} MB · Gratis", dl_all: "Todas las descargas en GitHub",
@@ -1946,7 +1985,8 @@ tr: {
   nav_faq: "SSS",
   nav_community: "Topluluk",
   nav_download: "İndir",
-  hero_pill: "2.2’de yeni: yeni bir görünüm, telefonun kumanda oldu ve üç oyun daha",
+  hero_pill: "2.3’te yeni: arkadaşlar, canlı harita ve tüm gezegen",
+  n23_h: "2.3’te yeni", n23_p: "Kodla bir kez eklediğin arkadaşlar, oturumunun canlı haritası, BeamNG’de tüm gezegen ve Assetto Corsa’da yarış botları.", q1t: "Arkadaşlar", q1p: "Bir arkadaşını kodla bir kez ekle. Kimin çevrimiçi olduğunu görür, sormadan birbirinize katılır ve tek tıkla davet edersin.", q2t: "Oyun gecesi", q2p: "Bir oturum planla ve arkadaşlarına haber ver. Modlarını önceden alırlar, o gece kimse indirme beklemez.", q3t: "Canlı harita", q3p: "BeamNG’de ve Assetto Corsa’da herkesin oturum haritasında nerede olduğunu gör. Oyundan hiçbir şey istenmez.", q4t: "Tüm gezegen", q4p: "Ücretsiz BeamNG.Earth haritasıyla dünyanın her yerinde birlikte sürün. Tandem onu senin için başlatır (Windows).", q5t: "Yarış botları", q5p: "Bir Assetto Corsa pistini, yarış çizgisini izleyen ve yoluna çıkmayan bilgisayar sürücüleriyle doldur.", q6t: "Fotoğraf albümü", q6p: "Bir oturumdaki herkesin ekran görüntüleri tek bir klasöre gelir. Tandem seninkileri paylaşmadan önce bir kez sorar.", q7t: "Yedek rota", q7p: "Modemleri doğrudan bağlanamayan arkadaşlar artık bir aktarma sunucusu üzerinden kendiliğinden katılıyor.", q8t: "Discord’a ekle", q8p: "Tandem botunu Discord sunucuna ekle: canlı oturumlar ve yeni sürüm haberleri, kendiliğinden.", q9t: "Discord durumu", q9p: "Arkadaşların Discord’da oyununu, haritayı ve oyuncuları görür ve oradan katılmak isteyebilir.", pn_h: "Şu an oynanıyor", pn_p: "Şu an açık olan herkese açık oturumlar. Katıl, bilgisayarında Tandem’i açar; her oyuncuyu yine ev sahibi içeri alır.", pn_join: "Tandem’de katıl", pn_players: "{n} / {max} oyuncu",
   hero_h1: "Arkadaşlarınla sür.",
   hero_lead: "BeamNG.drive ve Assetto Corsa oturumlarını kendi bilgisayarından kur. Arkadaşların tek bir davetle katılır, Tandem de eksik haritaları ve modları onlara getirir.",
   dl_win: "Windows için indir",
@@ -2128,6 +2168,10 @@ tr: {
   const reduced = matchMedia('(prefers-reduced-motion: reduce)').matches;
   const store = { get(k) { try { return localStorage.getItem(k); } catch { return null; } }, set(k, v) { try { localStorage.setItem(k, v); } catch { /* private window */ } } };
   let lang = 'en';
+  // ("Playing now", further down. Declared here because the language is applied, and the list drawn, before that part runs.)
+  const SESSIONS = 'https://tandem-sessions.mhmd8p.workers.dev';
+  const GAMES = { beamng: 'BeamNG.drive', assetto: 'Assetto Corsa' };
+  let playing = [];
 
   const fmt = (text, data) => text.replace(/\{(\w+)\}/g, (all, key) => (data && data[key] != null ? data[key] : all));
   const say = (key, data) => fmt((T[lang] && T[lang][key]) ?? T.en[key] ?? '', data);
@@ -2165,7 +2209,7 @@ tr: {
     document.querySelectorAll('[data-t]').forEach(el => { const text = say(el.dataset.t, el.dataset); if (text) el.textContent = text; });
     document.querySelectorAll('[data-t-alt]').forEach(el => { el.alt = say(el.dataset.tAlt); });
     document.querySelectorAll('[data-t-aria]').forEach(el => { el.setAttribute('aria-label', say(el.dataset.tAria)); });
-    windowsNote();
+    windowsNote(); drawPlaying();
     const now = LANGS.find(item => item[0] === lang); document.getElementById('lang-now').textContent = now ? now[1] : 'English';
     document.querySelectorAll('#lang-list li').forEach(li => li.setAttribute('aria-selected', String(li.dataset.lang === lang)));
     const meta = document.querySelector('meta[name="description"]'); if (meta) meta.setAttribute('content', say('hero_lead'));
@@ -2214,6 +2258,34 @@ tr: {
     const fallback = () => { label.textContent = url; const range = document.createRange(); range.selectNodeContents(label); const pick = getSelection(); pick.removeAllRanges(); pick.addRange(range); };
     if (navigator.clipboard && navigator.clipboard.writeText) navigator.clipboard.writeText(url).then(done, fallback); else fallback();
   }));
+
+  // "Playing now": the public sessions open at this moment, from Tandem's own service (a name, the game, the map,
+  // players; never an address). The block is not there at all while nobody hosts publicly or the list cannot be read.
+  function drawPlaying() {
+    const block = document.getElementById('now'), list = document.getElementById('now-list'); if (!block || !list) return;
+    list.textContent = '';
+    for (const one of playing) {
+      const row = document.createElement('li'), name = document.createElement('b'), facts = document.createElement('span'), join = document.createElement('a');
+      name.textContent = one.name; name.dir = 'auto';
+      // (Each fact stands on its own, so a map's name in another script cannot turn the players' numbers around.)
+      [GAMES[one.game], one.map, say('pn_players', { n: one.players, max: one.seats })].filter(Boolean).forEach((fact, index) => { if (index) facts.append(' · '); const piece = document.createElement('bdi'); piece.textContent = fact; facts.append(piece); });
+      join.href = `${SESSIONS}/j/p/${one.id}`; join.rel = 'noopener'; join.textContent = say('pn_join');
+      row.append(name, facts, join); list.append(row);
+    }
+    block.hidden = playing.length === 0;
+  }
+  async function readPlaying() {
+    if (document.hidden) return;
+    try {
+      const response = await fetch(`${SESSIONS}/v1/public/list-web`, { headers: { Accept: 'application/json' } });
+      const data = response.ok ? await response.json() : null;
+      // (Everything is checked again here: only plain text of a sane length, and an id that can only be an id.)
+      playing = (data && Array.isArray(data.sessions) ? data.sessions : []).filter(one => one && typeof one.name === 'string' && one.name.length <= 80 && typeof one.id === 'string' && /^[0-9a-f]{32}$/.test(one.id) && GAMES[one.game])
+        .slice(0, 12).map(one => ({ id: one.id, name: one.name, game: one.game, map: typeof one.map === 'string' ? one.map.slice(0, 60) : '', players: Number(one.players) || 0, seats: Number(one.seats) || 0 }));
+    } catch { playing = []; }
+    drawPlaying();
+  }
+  readPlaying(); setInterval(readPlaying, 60000); document.addEventListener('visibilitychange', () => { if (!document.hidden) readPlaying(); });
 
   async function latestRelease() {
     try { const cached = JSON.parse(store.get('tandem-release') || 'null'); if (cached && Date.now() - cached.at < 30 * 60 * 1000 && cached.r) return cached.r; } catch { /* ignore */ }
